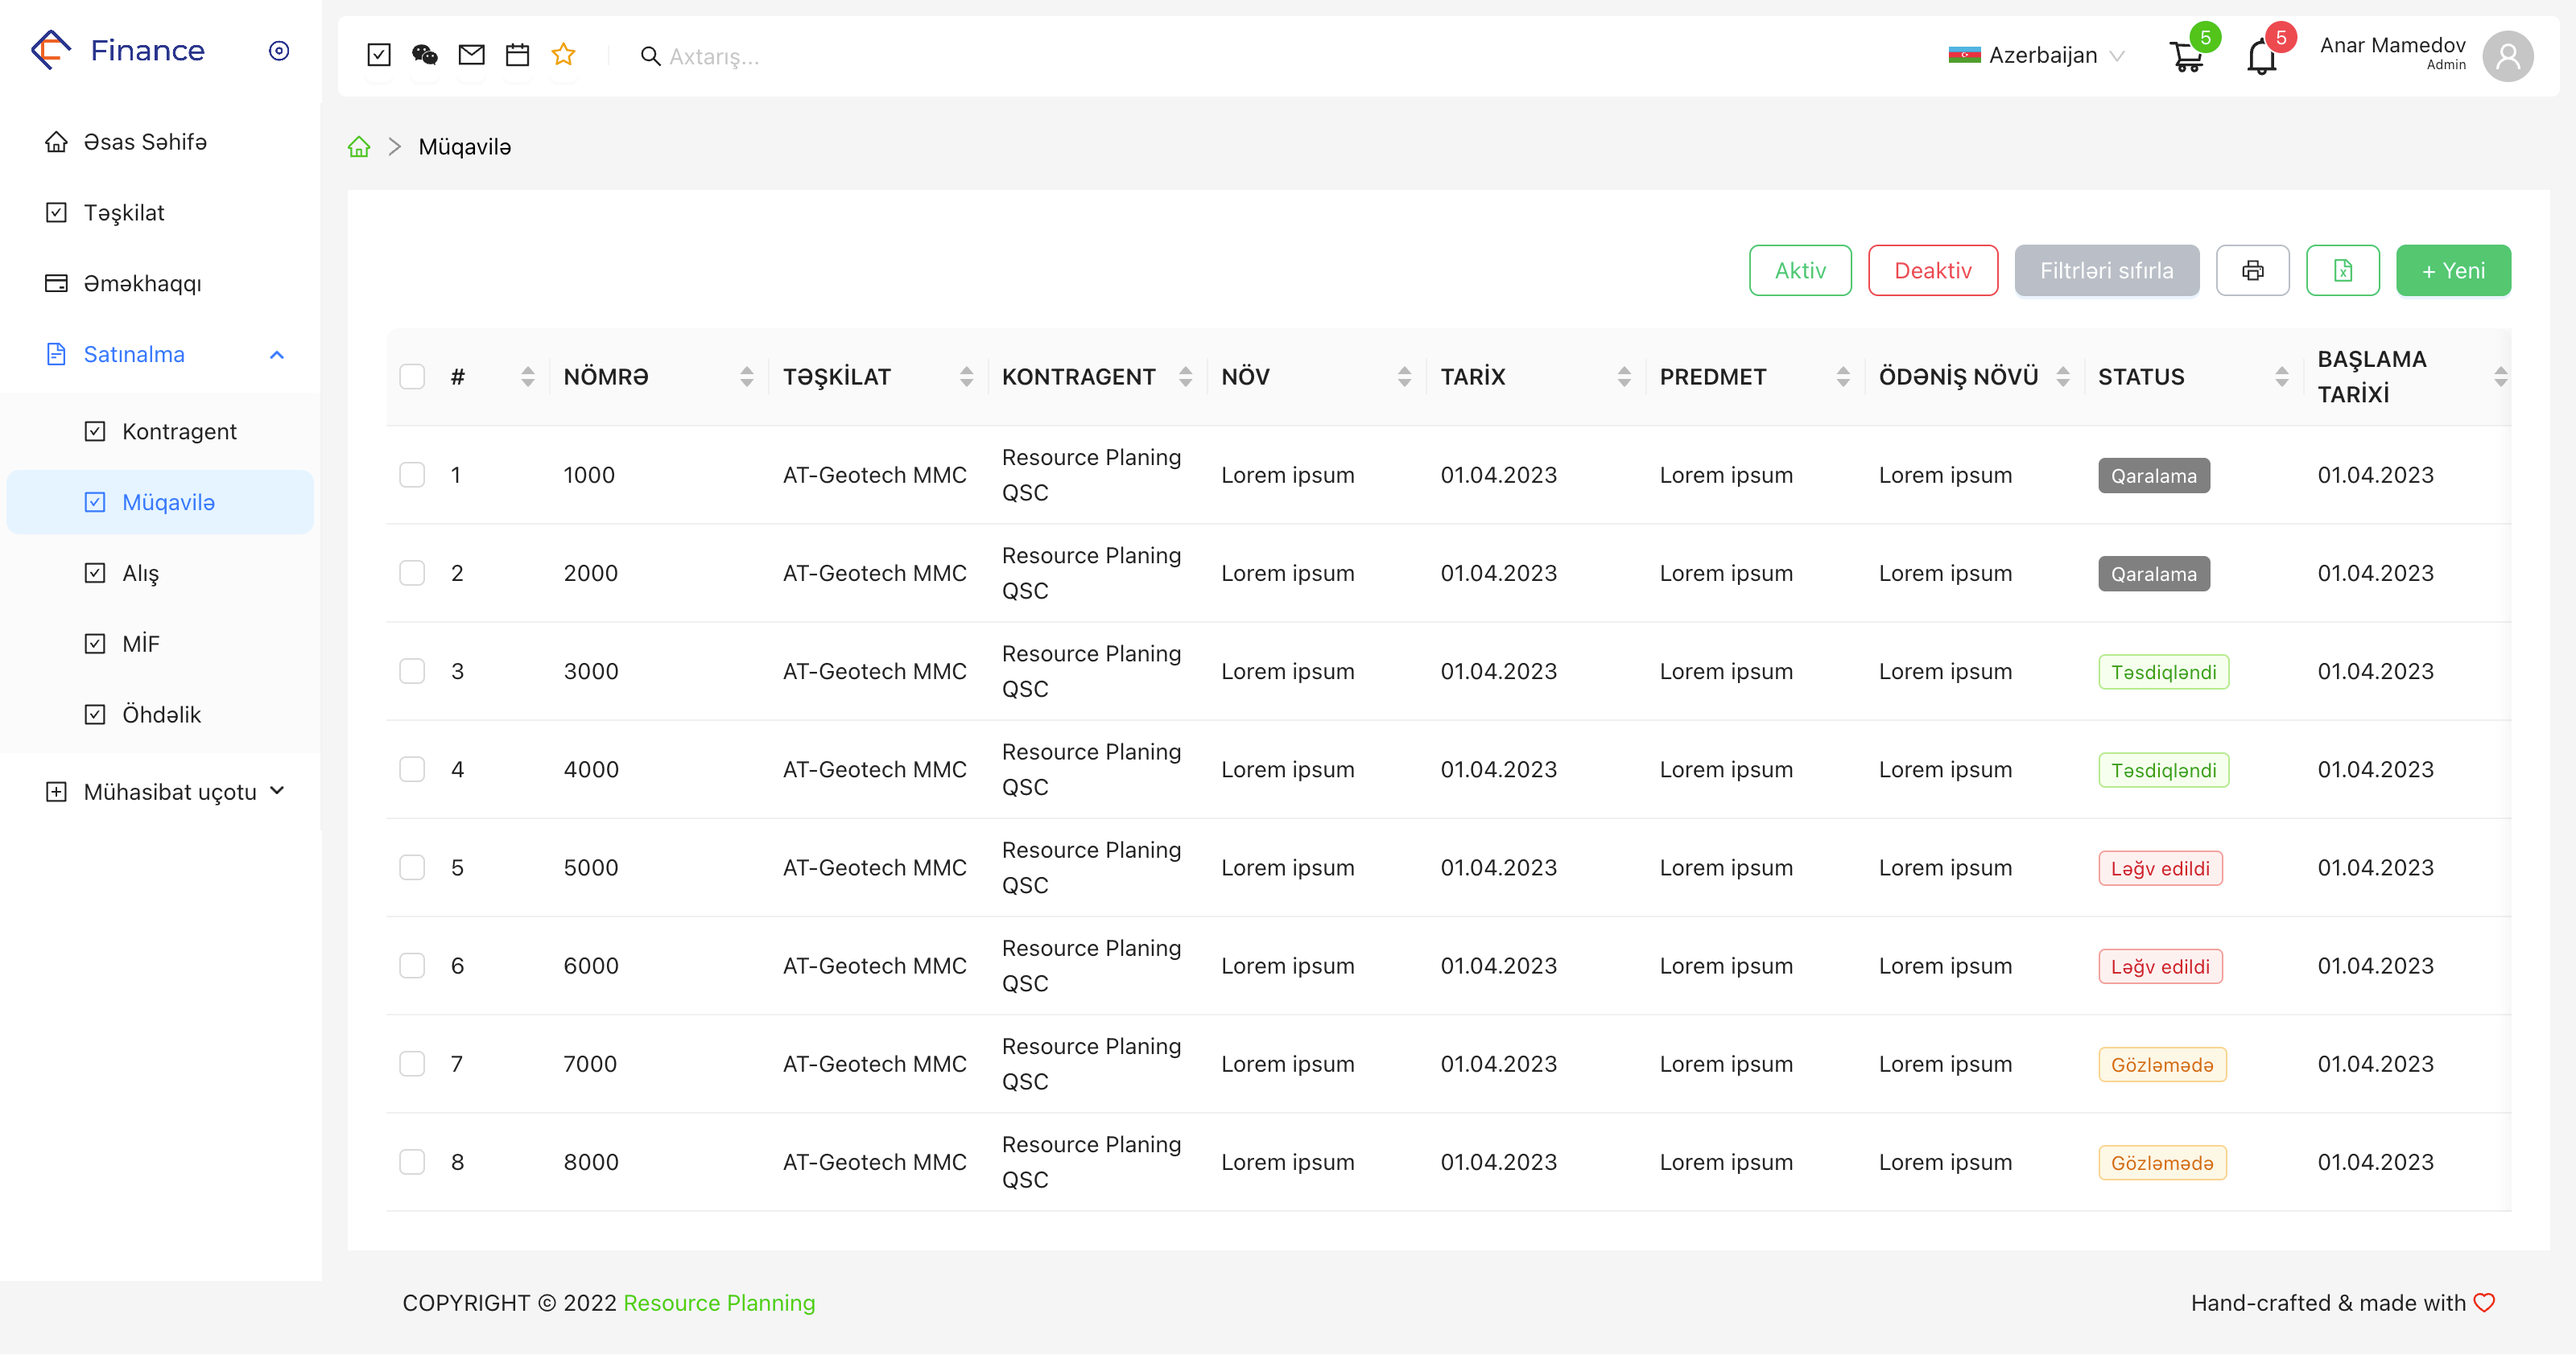
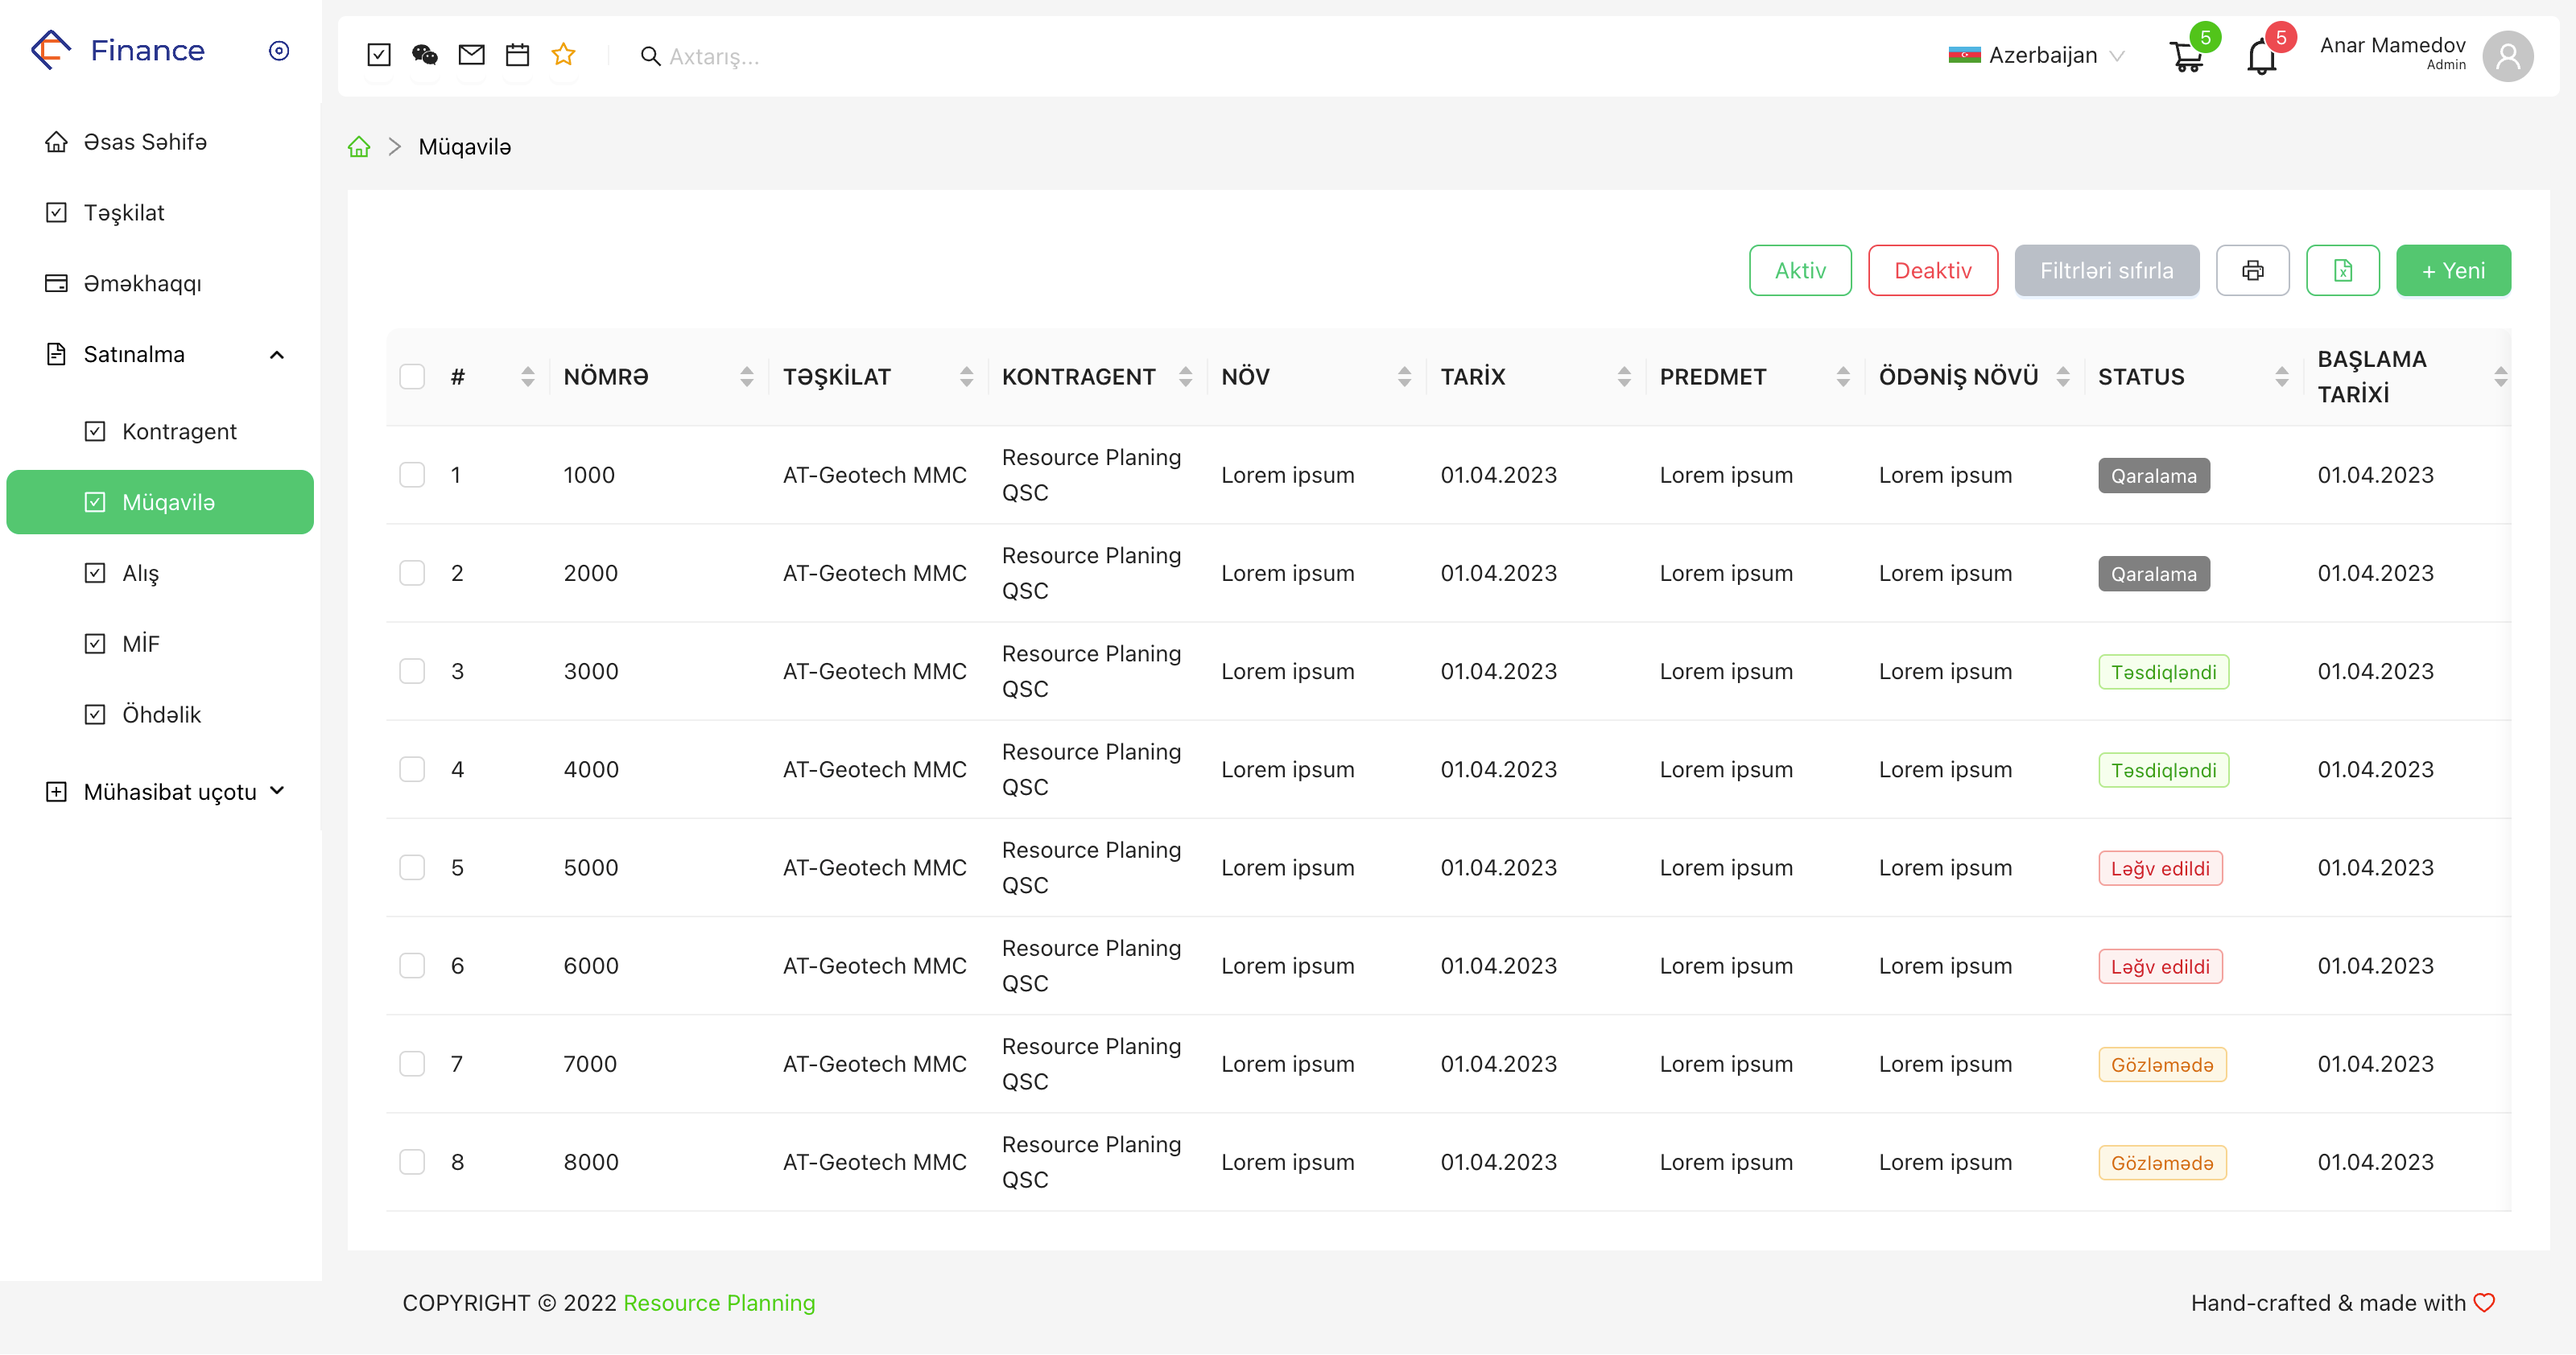
photo change

Changed region(s): [[0.0, 0.3397, 0.125, 0.4014], [0.0312, 0.247, 0.0625, 0.2779]]

diff --git a/src/pages/Dashboard/Dashboard.jsx b/src/pages/Dashboard/Dashboard.jsx
@@ -1,5 +1,6 @@
 import { Outlet, useNavigate } from "react-router-dom";
 import React from "react";
+import styled from "styled-components";
 
 import {
   CheckSquareOutlined,
@@ -16,6 +17,23 @@ import Footer from "./components/Footer/Footer";
 const { Sider } = Layout;
 
 const logo = require("../../logo.png");
+
+// styled-components
+
+const CustomMenu = styled(Menu)`
+  &.ant-menu:not(.ant-menu-horizontal) .ant-menu-item-selected {
+    background-color: #2bc770;
+    color: #fff;
+  }
+  .ant-menu-submenu-title {
+    color: #000 !important;
+  }
+  .ant-menu-inline {
+    background: #00000000 !important;
+  }
+`;
+
+// styled-components end
 
 export default function Dashboard() {
   const navigate = useNavigate();
@@ -117,7 +135,7 @@ export default function Dashboard() {
             // background: "rgba(0, 0, 0, 0.2)",
           }}
         />
-        <Menu
+        <CustomMenu
           theme="light"
           mode="inline"
           defaultSelectedKeys={["4"]}
